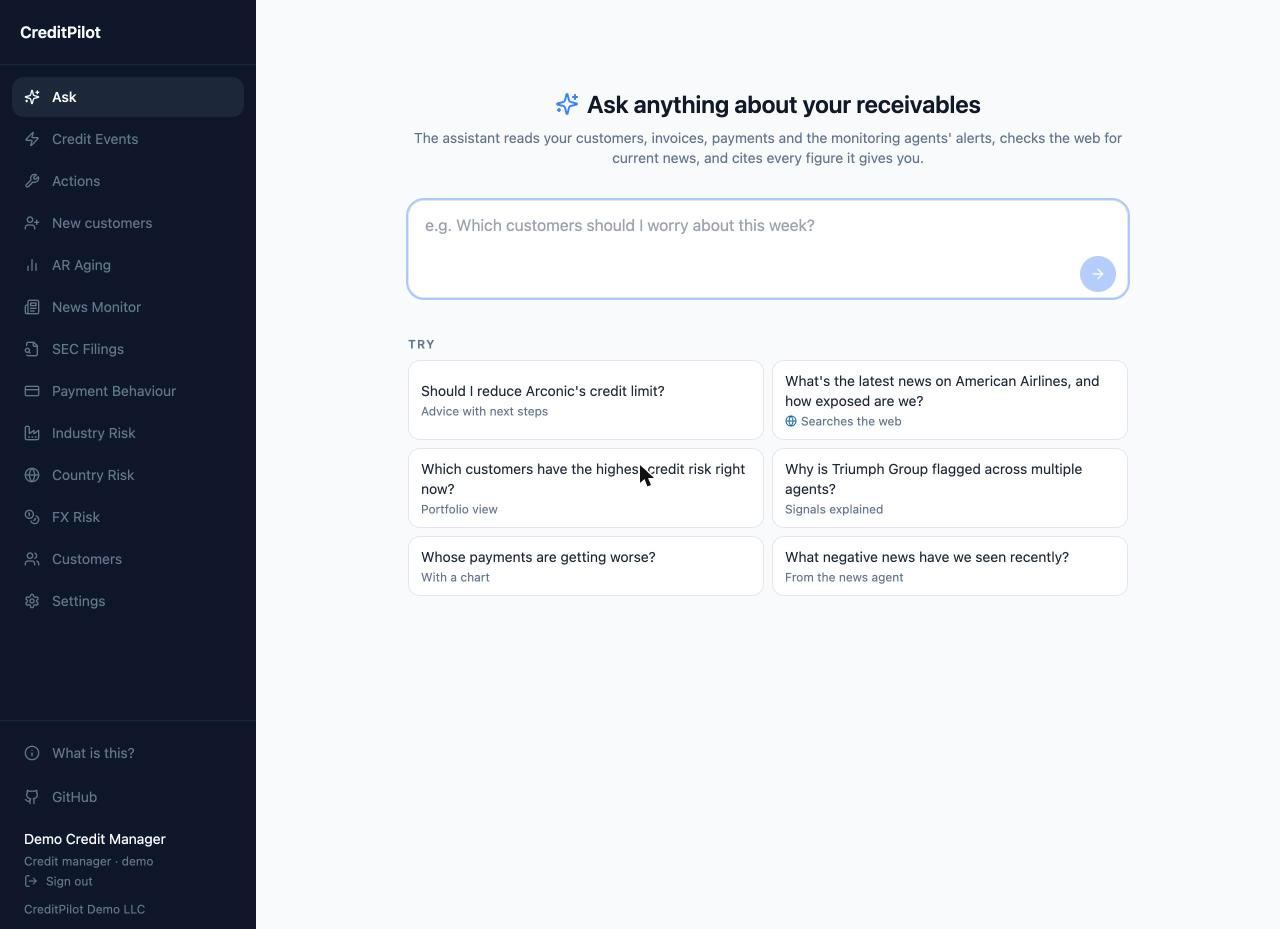
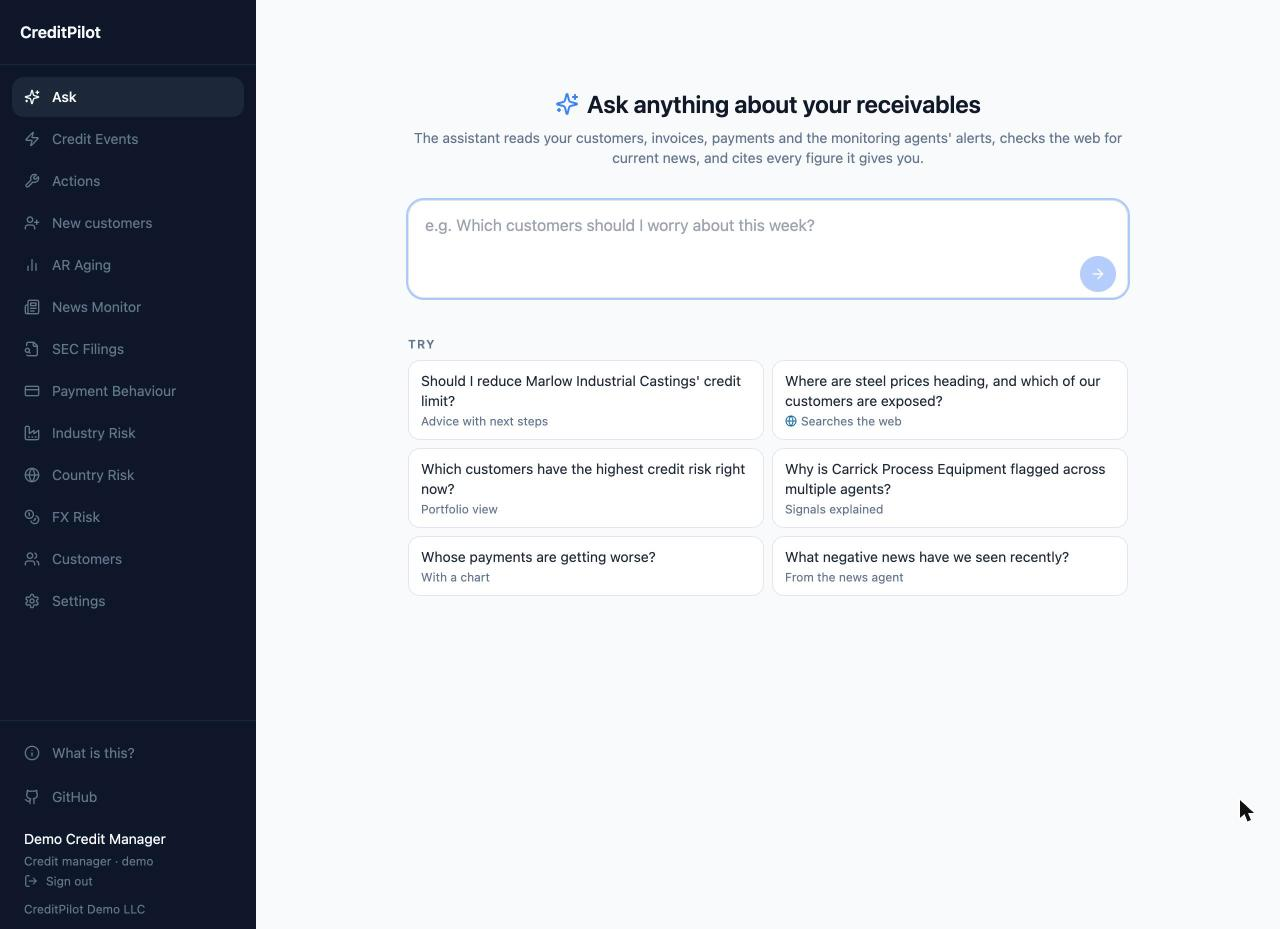
Demo: notices, README and screenshots for the fictional portfolio; no EDGAR links for demo CIKs
The story portfolio (#103) is fully fictional, but five notices still said real
company names, real CIKs/EDGAR links and real FRED/BLS series. The SEC page linked
fictional CIKs to EDGAR. Persona blurbs described onboarding, which is off in the
demo. README examples and screenshots showed the old portfolio (American Airlines).

Claude-Session: https://claude.ai/code/session_0119f1ZqbfSTWdzrBjSY65Kh

diff --git a/src/pages/SecFilings.tsx b/src/pages/SecFilings.tsx
@@ -68,7 +68,7 @@ export default function SecFilings() {
           <h1 className="text-xl font-semibold text-foreground">SEC Filings</h1>
           <p className="text-xs text-muted-foreground mt-1">Per-company filing history and monitoring status — open one from a Credit Events source card for context, or browse below.</p>
         </div>
-        <DemoDataNotice message="CIK numbers and filing links are real and point to actual SEC EDGAR pages. The risk signals and findings shown here are fabricated for this demo and were not found in those filings." />
+        <DemoDataNotice message="Demo data. The companies, filings and findings shown here are fictional, so there are no SEC links." />
         <div className="flex items-center justify-center h-64 border border-dashed rounded-xl text-muted-foreground text-sm">
           No monitored customers found. Agents will populate this automatically.
         </div>
@@ -83,7 +83,7 @@ export default function SecFilings() {
         <p className="text-xs text-muted-foreground mt-1">Per-company filing history and monitoring status — open one from a Credit Events source card for context, or browse below.</p>
       </div>
 
-      <DemoDataNotice message="CIK numbers and filing links are real and point to actual SEC EDGAR pages. The risk signals and findings shown here are fabricated for this demo and were not found in those filings." />
+      <DemoDataNotice message="Demo data. The companies, filings and findings shown here are fictional, so there are no SEC links." />
 
       <div className="space-y-4">
         {(monitoring ?? []).map((d: any) => {
@@ -113,6 +113,8 @@ export default function SecFilings() {
                     {d.alert_triggered && (
                       <Badge variant="destructive" className="text-[10px] h-5">Alert Active</Badge>
                     )}
+                    {/* Demo CIKs are fictional: an EDGAR link would open an unrelated or empty page. */}
+                    {!DEMO_MODE && (
                     <a
                       href={secUrl}
                       target="_blank"
@@ -121,6 +123,7 @@ export default function SecFilings() {
                     >
                       View SEC Filings <ExternalLink className="h-3 w-3" />
                     </a>
+                    )}
                   </div>
                 </div>
 

diff --git a/src/pages/Login.tsx b/src/pages/Login.tsx
@@ -7,8 +7,8 @@ import { useAuth, type DemoPersona } from "@/lib/auth";
 import { DEMO_MODE } from "@/lib/constants";
 
 const PERSONAS: { key: DemoPersona; label: string; blurb: string }[] = [
-  { key: "credit_manager", label: "Credit manager", blurb: "Approves new customers and credit limits, clears screening hits." },
-  { key: "credit_analyst", label: "Credit analyst", blurb: "Adds new customers and runs screening; a manager approves." },
+  { key: "credit_manager", label: "Credit manager", blurb: "Approves or rejects proposed credit limit changes." },
+  { key: "credit_analyst", label: "Credit analyst", blurb: "Approves limit cuts, and limits up to $250,000; a manager approves larger ones." },
   { key: "sales", label: "Sales rep", blurb: "Looks around: customers, alerts and the assistant." },
 ];
 

diff --git a/src/pages/CreditEvents.tsx b/src/pages/CreditEvents.tsx
@@ -181,7 +181,7 @@ export default function CreditEvents() {
         </p>
       </div>
 
-      <DemoDataNotice message="Demo portfolio. Real company names are used for illustration only: every event, figure, score and news item below is fictional and says nothing about those companies." />
+      <DemoDataNotice message="Demo portfolio. Every company, event, figure, score and news item below is fictional." />
 
       {showPendingBanner && (
         <div className="flex items-center gap-3 bg-agent-aging/10 border border-agent-aging/30 rounded-xl px-4 py-3">

diff --git a/src/pages/Customers.tsx b/src/pages/Customers.tsx
@@ -67,7 +67,7 @@ export default function Customers() {
           </SelectContent>
         </Select>
       </div>
-      <DemoDataNotice message="Demo portfolio. Real company names are used for illustration only: limits, balances, scores and payment figures are fictional, not real ratings or bureau scores." />
+      <DemoDataNotice message="Demo portfolio. Every company, limit, balance, score and payment here is fictional." />
 
       {isLoading ? <SkeletonTable rows={15} /> : (
         <div className="bg-card rounded-xl border overflow-hidden">

diff --git a/src/pages/IndustryRisk.tsx b/src/pages/IndustryRisk.tsx
@@ -125,7 +125,7 @@ export default function IndustryRisk() {
         </p>
       </div>
 
-      <DemoDataNotice message="Economic series IDs (FRED/BLS) are real, but the percentage changes and news headlines shown here are fabricated for this demo and were not published or reported." />
+      <DemoDataNotice message="Demo data. The price series, percentage changes and news headlines shown here are fictional." />
 
       <div className="space-y-4">
         {(sectors ?? []).map((s) => {

diff --git a/README.md b/README.md
@@ -16,7 +16,7 @@ Open source (MIT). **Live demo: [creditpilot.vercel.app](https://creditpilot.ver
 | **Reads the web too** | For a question about a customer, a sector or "what's happening", it searches the web and puts the news next to your exposure. Web facts are cited to their pages. Figures about your own customers only ever come from your data. |
 | **Shows its work** | You see each step as it happens ("Reading 1 customer, 8 payments, 5 credit events…", "Searching the web: …"), then the answer as it is written. |
 | **Never does the arithmetic itself** | Totals, aging buckets, payment trends, limit use and every chart are computed in code and handed to the model as facts. The model explains numbers; it does not produce them. |
-| **Ends advice with next steps** | "Should I reduce Arconic's limit?" gets the facts, then 2–3 steps you can take, in CreditPilot first. Missing or out-of-date accounts become "ask for the latest annual accounts". |
+| **Ends advice with next steps** | "Should I reduce Marlow Industrial Castings' limit?" gets the facts, then 2–3 steps you can take, in CreditPilot first. Missing or out-of-date accounts become "ask for the latest annual accounts". |
 | **Lets you act from the answer** | Open the customer, or approve or reject the action an agent proposed, right under the answer. |
 | **Keeps the conversation** | Follow-ups stack on the page and keep the context, so "is that more than their limit?" knows who "their" is. |
 | **Shares an answer** | One link opens the question, the answer, its sources and charts. |
@@ -33,12 +33,13 @@ Open source (MIT). **Live demo: [creditpilot.vercel.app](https://creditpilot.ver
 
 ### Try these in the demo
 
-- Should I reduce Arconic's credit limit?
-- What's the latest news on American Airlines, and how exposed are we?
+- Should I reduce Marlow Industrial Castings' credit limit?
+- Where are steel prices heading, and which of our customers are exposed?
+- Why is Carrick Process Equipment flagged across multiple agents?
 - Which customers have the highest credit risk right now?
 - Whose payments are getting worse?
 
-The demo runs on a sample portfolio: real company names used for illustration, with every score, invoice, payment, event and news item invented. It replays the same story each day with today's dates. Answers are written live by Claude (10 questions per visitor per day).
+The demo runs on a fictional portfolio of 40 customers in the US, Germany, the UK and Japan: every company, score, invoice, payment, event and news item is invented. It replays the same story each day with today's dates. Answers are written live by Claude (10 questions per visitor per day).
 
 ---
 

diff --git a/src/content/user-guide.md b/src/content/user-guide.md
@@ -23,7 +23,7 @@ Each analyst works on its own and writes into one shared log, **Credit Events**:
 
 When the warning signs about a customer add up, the app proposes an **Action**, for example a lower credit limit, with its reasoning and the events behind it. Nothing changes until a person approves it.
 
-The **Credit Intelligence Agent (CIA)** watches nothing itself. It reads what the others wrote and answers questions in plain English from the chat bar at the bottom of every page, such as "Should we be worried about American Airlines?" Every claim points to the record behind it; totals and counts are calculated by the app, not by the AI. It gets more useful with every analyst added, without changes to the CIA.
+The **Credit Intelligence Agent (CIA)** watches nothing itself. It reads what the others wrote and answers questions in plain English from the chat bar at the bottom of every page, such as "Should I reduce Marlow Industrial Castings' credit limit?" Every claim points to the record behind it; totals and counts are calculated by the app, not by the AI. It gets more useful with every analyst added, without changes to the CIA.
 
 ---
 
@@ -66,7 +66,7 @@ When several agents flag the same customer, the CIA writes one **Several warning
 
 ## The demo, and running it on your own data
 
-**The demo** runs on a sample portfolio, so anyone can try it without setup. On the sign-in page, try it as a credit manager, a credit analyst or a sales rep. The customer names are real companies used for illustration only: every score, limit, invoice, payment, event and news item about them is invented. The demo is shared by every visitor and replays the same story each day with today's dates. New customers (onboarding) is not available in the demo; it works on your own CreditPilot. Real in the demo: the CIA's answers, written live by an AI model (10 questions a day per visitor).
+**The demo** runs on a sample portfolio, so anyone can try it without setup. On the sign-in page, try it as a credit manager, a credit analyst or a sales rep. Every company in it is fictional, and so is every score, limit, invoice, payment, event and news item. The demo is shared by every visitor and replays the same story each day with today's dates. New customers (onboarding) is not available in the demo; it works on your own CreditPilot. Real in the demo: the CIA's answers, written live by an AI model (10 questions a day per visitor).
 
 **Your own data** stays yours: a company runs CreditPilot in its own Supabase project, or entirely locally, and nothing touches this project's infrastructure. The repo's RUN_IT_YOURSELF guide covers both.
 
